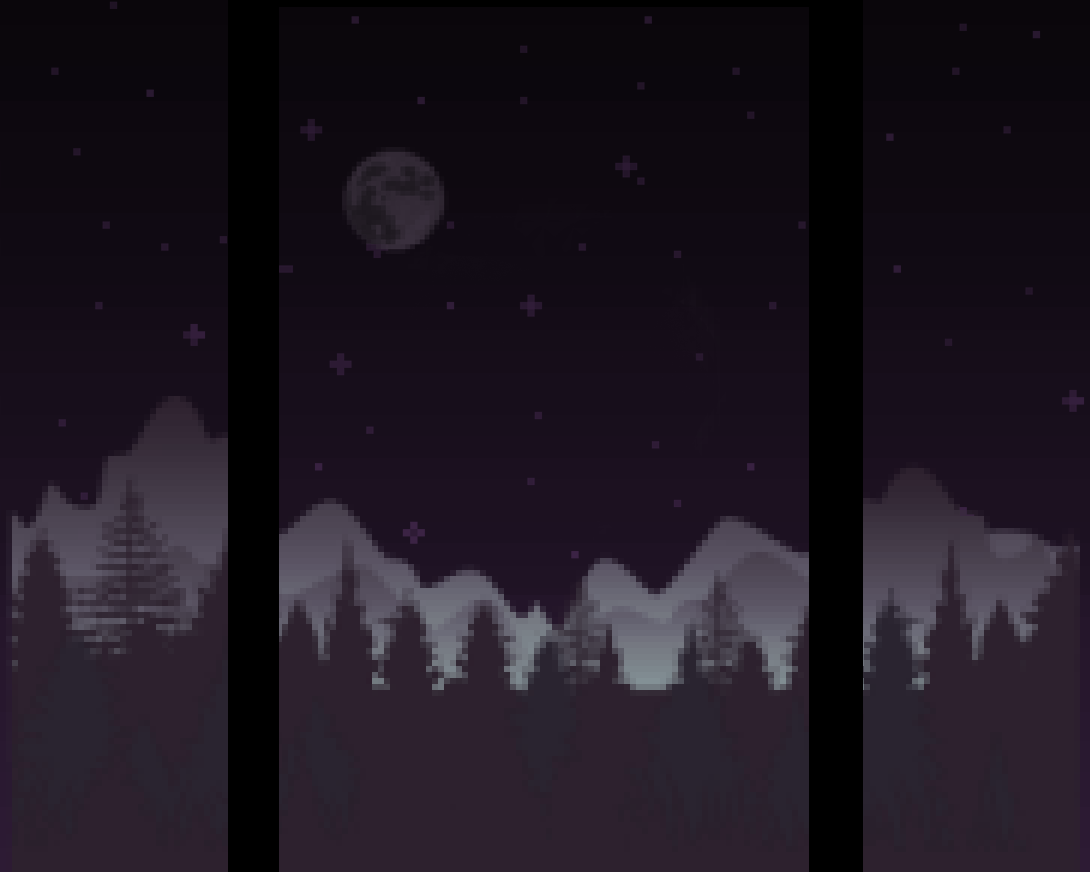
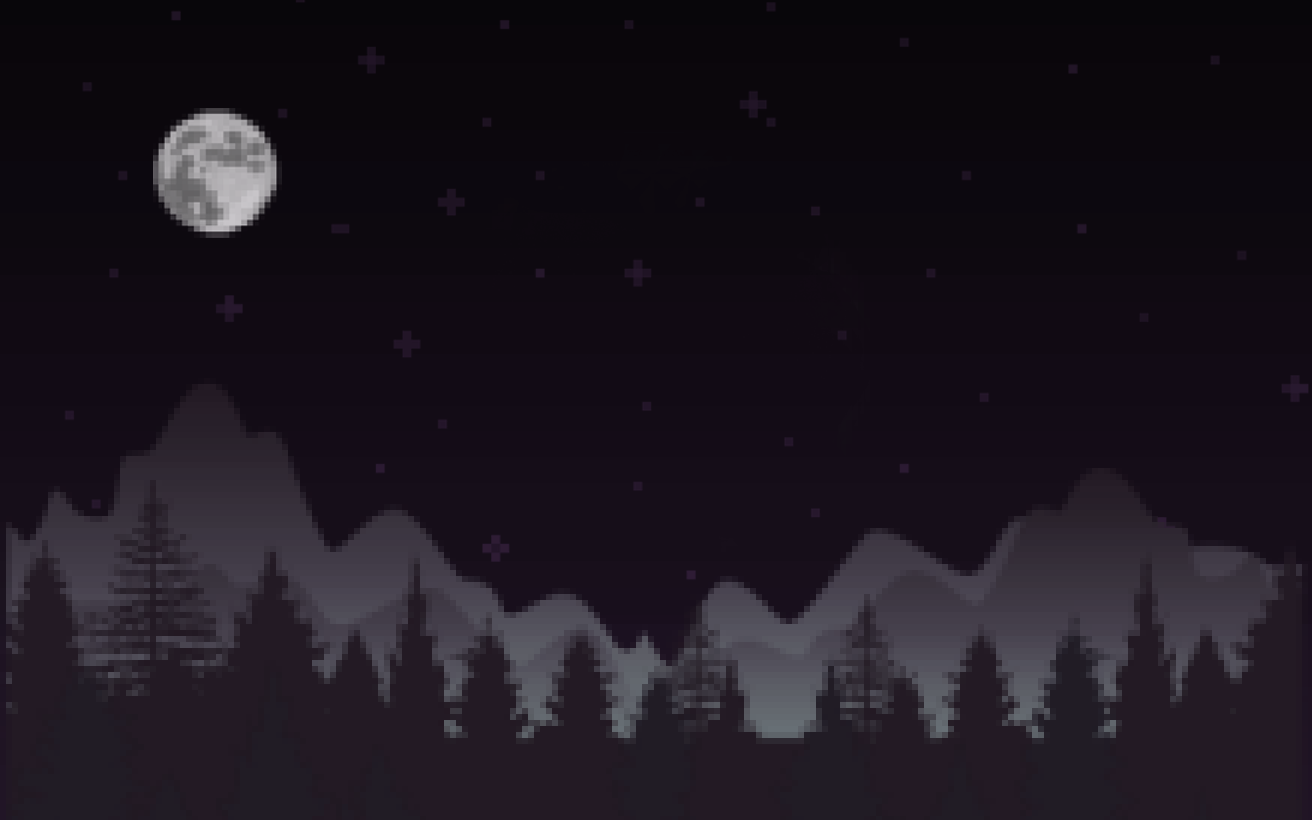
changed background and player spawn

diff --git a/main.py b/main.py
@@ -23,6 +23,7 @@ from jumpingDemo.script.PlayerFeatherCollisionAction import PlayerFeatherCollisi
 from jumpingDemo.script.PlayerTimerAction import PlayerTimerAction
 from jumpingDemo.script.HandleGameOver import GameOver
 from jumpingDemo.script.PlayBackgroundMusic import PlayBackgroundMusicAction
+from jumpingDemo.script.CreateBackgroundAction import CreateBackgroundAction
 from jumpingDemo.script.RemoveBackgroundAction import RemoveBackgroundAction
 
 
@@ -58,47 +59,51 @@ def main():
     for i in range(1, 3):
         
         player_animations.append(f"resources/zombie{i}.png")
-    PLAYER_START_X = W_SIZE[0]/2
-    PLAYER_START_Y = 100
+    PLAYER_START_X = W_SIZE[0] - 800
+    PLAYER_START_Y = 500
     player = Player(player_animations, 35, 50, 30, MAX_FPS, True, PLAYER_START_X, PLAYER_START_Y)
     feather1 = Feather("resources/feather.png", 30, 30, PLAYER_START_X, PLAYER_START_Y, 0, 0, 0, 0, False)
     feather2 = Feather("resources/feather.png", 30, 30, PLAYER_START_X, PLAYER_START_Y, 0, 0, 0, 0, False)
     feather3 = Feather("resources/feather.png", 30, 30, PLAYER_START_X, PLAYER_START_Y, 0, 0, 0, 0, False)
     limit_top = Actor("resources/platform.png", W_SIZE[0], 400, W_SIZE[0]/2, -200)
-    limit_bottom = Actor("", W_SIZE[0], 400, W_SIZE[0]/2, W_SIZE[1]+180)
+    limit_bottom = Actor("", W_SIZE[0]+100, 400, W_SIZE[0]/2, W_SIZE[1]+200)
 
   
                                
                                 
     difficulty = player.get_difficulty()
-    limit_left = Actor("resources/background.png", 600, W_SIZE[1], -200, W_SIZE[1]/2)
-    limit_right = Actor("resources/background.png", 600, W_SIZE[1], W_SIZE[0]+200, W_SIZE[1]/2)
+    limit_left = Actor("", 600, W_SIZE[1]+100, W_SIZE[0] -1380, W_SIZE[1]/2)
+    limit_right = Actor("", 600, W_SIZE[1]+100, W_SIZE[0]+177, W_SIZE[1]/2)
     # "" Width Height X Y
-    platform1 = Actor("resources/platform.png", 400, 20, randint(100,W_SIZE[0]-100), 600, vy=difficulty)
-    platform2 = Actor("resources/platform.png", 400, 20, randint(100,W_SIZE[0]-100), 450, vy=difficulty)
-    platform3 = Actor("resources/platform.png", 400, 20, randint(100,W_SIZE[0]-100), 300, vy=difficulty)
-    platform4 = Actor("resources/platform.png", 400, 20, randint(100,W_SIZE[0]-100), 150, vy=difficulty)
-    platform5 = Actor("resources/platform.png", 400, 20, randint(100,W_SIZE[0]-100), 0, vy=difficulty)
+    platform1 = Actor("resources/platform.png", 400, 20, 400, 600, vy=difficulty)
+    platform2 = Actor("resources/platform.png", 400, 20, 800, 450, vy=difficulty)
+    platform3 = Actor("resources/platform.png", 400, 20, 600, 300, vy=difficulty)
+    platform4 = Actor("resources/platform.png", 400, 20, 500, 150, vy=difficulty)
+    platform5 = Actor("resources/platform.png", 400, 20, 800, 0, vy=difficulty)
     
-    background_x = W_SIZE[0]/2
-    background_y = W_SIZE[1]/5
-    background1 = Background(background_x,0)
-    background2 = Background(background_x,background_y)
-    background3 = Background(background_x,background_y*2)
-    background4 = Background(background_x,background_y*3)
-    background5 = Background(background_x,background_y*4)
-    background6 = Background(background_x,background_y*5)
+    # background_x = W_SIZE[0]/2
+    # background_y = W_SIZE[1]/5
+    # background1 = Background(background_x,0)
+    # background2 = Background(background_x,background_y)
+    # background3 = Background(background_x,background_y*2)
+    # background4 = Background(background_x,background_y*3)
+    # background5 = Background(background_x,background_y*4)
+    # background6 = Background(background_x,background_y*5)
 
+    background1 = Actor("resources/background.png", 1000, 750, W_SIZE[0] / 2, 375,  vy=1)
+    static_image = Actor("resources/forest.png", 1200, 750,  W_SIZE[0] / 2, W_SIZE[1] /2)
+    
     start_button = Actor("resources/start_game_button.png", 305, 51, W_SIZE[0]/2, 300)
     game_over = Actor("resources/game_over.png", 305, 51, W_SIZE[0]/2, 300)
     
-    #cast.add_actor("static_image", static_image)
+    cast.add_actor("static_image", static_image)
     cast.add_actor("background", background1)
-    cast.add_actor("background", background2)
-    cast.add_actor("background", background3)
-    cast.add_actor("background", background4)
-    cast.add_actor("background", background5)
-    cast.add_actor("background", background6)
+    # cast.add_actor("background", background1)
+    # cast.add_actor("background", background2)
+    # cast.add_actor("background", background3)
+    # cast.add_actor("background", background4)
+    # cast.add_actor("background", background5)
+    # cast.add_actor("background", background6)
     cast.add_actor("player", player)
     cast.add_actor("feathers", feather1)
     cast.add_actor("feathers", feather2)
@@ -122,7 +127,7 @@ def main():
     startgame_actions["input"].append(HandlePlayerMovementAction(1, keyboard_service))
     startgame_actions["input"].append(SpawnBirdAction(1))
     startgame_actions["input"].append(ThrowDounutAction(1, keyboard_service, audio_service))
-    #startgame_actions["input"].append(CreateBackgroundAction(1, W_SIZE))
+    startgame_actions["input"].append(CreateBackgroundAction(1, W_SIZE))
     startgame_actions["input"].append(MoveActorsAction(1, physics_service))
     startgame_actions["update"].append(SpawnPlatformAction(1, physics_service))
 
@@ -142,7 +147,7 @@ def main():
     script.add_action("update", HandlePlayerJumpOnSidesOfPlatform(1, physics_service))
     script.add_action("update", ApplyGravtityToPlayer(2))
     script.add_action("update", RemoveBirdAction(1))
-    script.add_action("update", MoveBackgroundAction(1))
+    # script.add_action("update", MoveBackgroundAction(1))
     script.add_action("update", RemovePlatformAction(1))
     script.add_action("update", RemoveBackgroundAction(1))
     script.add_action("update", HandleDounutsAction(1))

diff --git a/jumpingDemo/script/CreateBackgroundAction.py b/jumpingDemo/script/CreateBackgroundAction.py
@@ -1,7 +1,7 @@
 from genie.cast.actor import Actor
 from genie.cast.cast import Cast
 from genie.script.action import Action
-from jumpingDemo.script.SpawnPlatformAction import SPAWN_INTERVAL
+from globals import *
 
 class CreateBackgroundAction(Action):
     def __init__(self, priority, window_size):
@@ -19,8 +19,8 @@ class CreateBackgroundAction(Action):
         backgrounds = actors.get_actors("background")
         for background in backgrounds:
             background_position = background.get_position()[1]
-            if background_position == 400:
-                new_background = Actor("resources/background.png", 600, 900, x, y, vy=1)
+            if background_position == 375:
+                new_background = Actor("resources/background.png", 1000, W_SIZE[1],  W_SIZE[0] / 2, -365, vy=1)
                 actors.add_actor("background", new_background )
             
  

diff --git a/jumpingDemo/script/SpawnPlatformAction.py b/jumpingDemo/script/SpawnPlatformAction.py
@@ -24,7 +24,7 @@ class SpawnPlatformAction(UpdateAction):
             width = rd.randint(400,550)
             height = 20
             y = 0
-            x = rd.randint(200, W_SIZE[0]-200)
+            x = rd.randint(400, W_SIZE[0]-400)
             platform = self._create_platforms(width, height, x, y, vy = player.get_difficulty())
             actors.add_actor("platforms", platform)
             self._last_spawn = time.time()

diff --git a/jumpingDemo/cast/background.py b/jumpingDemo/cast/background.py
@@ -3,4 +3,4 @@ from globals import *
 class Background(Actor):
     def __init__(self, x: float = 0, y: float = 0, vy: float = 1.5):
         PARRALAX = 2
-        super().__init__("resources/mudbricks.png", W_SIZE[0], (W_SIZE[1]/5)+2, x=x, y=y, vx = 0, vy = vy/PARRALAX)
+        super().__init__("resources/mudbricks.png", 1200, (W_SIZE[1]/5)+2, x=x, y=y, vx = 0, vy = vy/PARRALAX)
